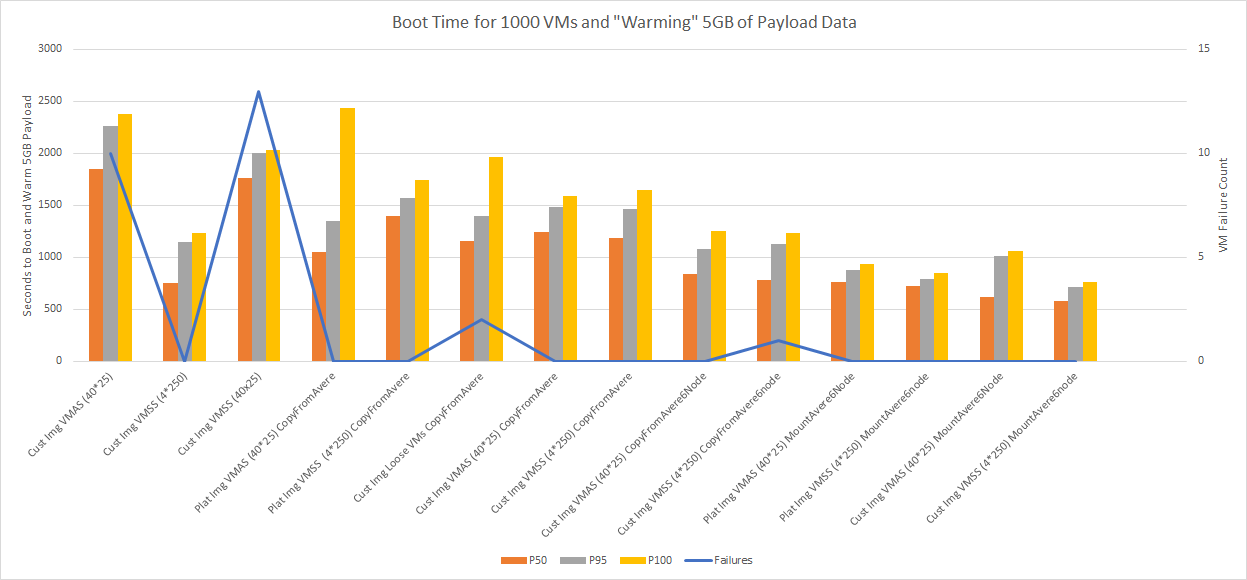
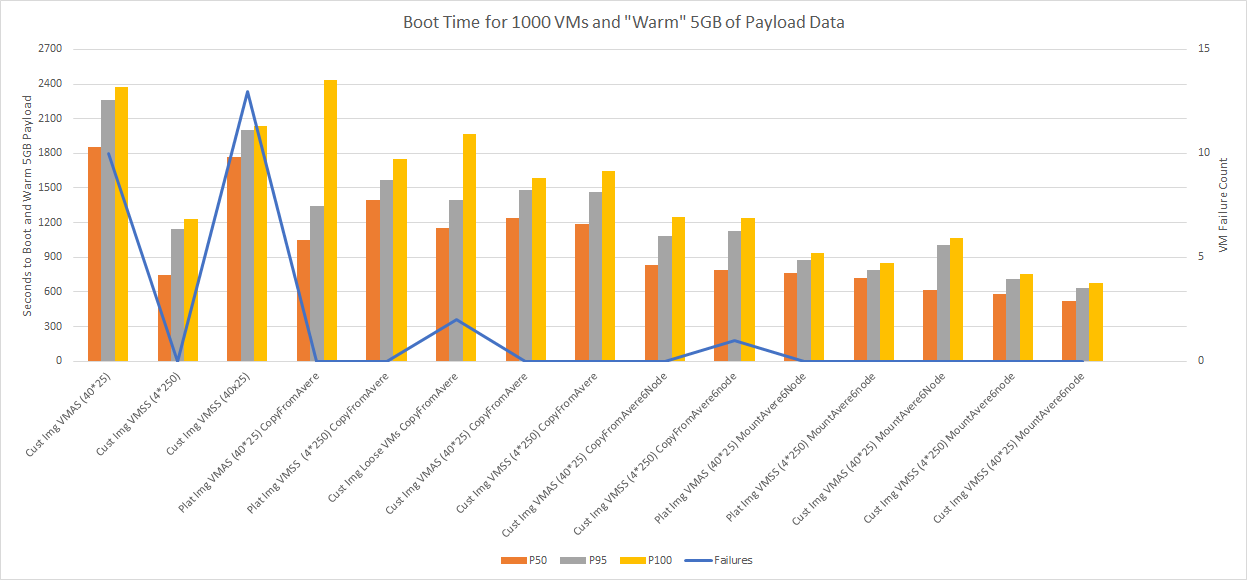
add abstract and update charts to use major axis in 5 min increments

diff --git a/docs/azure_vm_provision_best_practices.md b/docs/azure_vm_provision_best_practices.md
@@ -2,16 +2,21 @@
 
 September 2018
 
-The Avere Virtual FXT (vFXT) Edge Filers act as network-attached storage (NAS) in the cloud and support burstable high-performance computing (HPC) workloads. A common question we hear from customers is how to boot thousands of virtual machines (VMs) quickly on Azure. 
+## Abstract
 
-Our first answer to customers is to investigate the Azure managed solutions such as [Azure CycleCloud](https://azure.microsoft.com/en-us/features/azure-cyclecloud/) and [Azure Batch](https://azure.microsoft.com/en-us/services/batch/). These two solutions remove the complexity of booting HPC sized compute workloads.
+Using a combination of Azure Compute primitives and the Avere vFXT we were able decrease the 95th percentile of the boot time and payload read of 1000 VMs by 72% from 37 minutes 40 seconds down to 10 minutes 33 seconds.  This report discusses the various performance pitfalls to avoid and the optimizations available to ensure your VMs boot and are running your applications in the fastest possible time.
+
+## Introduction
+
+A common question we hear from our HPC customers is how to boot thousands of virtual machines (VMs) quickly on Azure.  Our first answer to customers is to use either of the Azure managed solutions such as [Azure CycleCloud](https://azure.microsoft.com/en-us/features/azure-cyclecloud/) and [Azure Batch](https://azure.microsoft.com/en-us/services/batch/). These two solutions remove the complexity of booting HPC sized compute workloads.
 
 However, some customers still want to deploy their own workloads from scratch or want the ability to fine tune and add features from the [Azure Quickstart Templates](https://github.com/Azure/azure-quickstart-templates). For these customers we did not have a best practices guide. This document explores booting 1000 VMs and provides some best practices for deploying VMs quickly on Azure.
 
 The main questions of this document are:
-  1. What is the fastest way to deploy 1000 VMs?
 
-  2. Can the Avere vFXT be used to serve large binary/toolchain payloads to result in improved deployment times?
+  1. What is the fastest way to boot 1000 VMs?
+
+  2. Can the Avere vFXT be used to serve large binary / toolchain payloads to result in improved deployment times?  The Avere Virtual FXT (vFXT) Edge Filers act as network-attached storage (NAS) in the cloud and support burstable high-performance computing (HPC) workloads. 
 
 This document first starts with hypotheses for these questions, and then runs various experiments to prove or disprove the hypotheses and finally concludes with best practices. Some of the best practices learned in this study can further help improve speed of boot times with [Azure CycleCloud](https://azure.microsoft.com/en-us/features/azure-cyclecloud/), and [Azure Batch](https://azure.microsoft.com/en-us/services/batch/).
 
@@ -98,11 +103,11 @@ Then with each template from the [deployer utility](https://github.com/anhowe/az
 
 ## Results
 
-We broke our experiment up into two phases:
+We divided our experiment into two phases:
 
   1. Phase 1: Determine the fastest way to boot 1000 VMs.
 
-  2. Phase 2: How much does Avere vFXT improve the delivery of the large binary/toolchain payloads?
+  2. Phase 2: How can the Avere vFXT improve the delivery and usage of a large binary/toolchain payload?
  
 ### Phase 1: Determine the fastest way to boot 1000 VMs
 
@@ -205,9 +210,9 @@ Here are the percentiles of seconds to boot and "warm" a 1GB tool chain from bit
 
 On the 5GB "warming" we hit some form of threshold in the stack where the VM boot tail grew as signified by the P100 time. We also started seeing multiple VM failures. Most of the failures we saw were because the VM rebooted and interrupted the deployment process.  The VMSS VMs outperformed the loose VMs and the availability set VMs. After running this experiment we ran an additional experiment, where we reduced the VMSS to 25 VMs per VMSS, and we ended up with much worse performance and an increase in failures. This led to a conclusion that a large VMSS group scales much better than many smaller ones.
 
-### Phase 2: How much does Avere vFXT improve the delivery of the large binary/toolchain payloads?
+### Phase 2: How can the Avere vFXT improve the delivery and usage of a large binary/toolchain payload?
 
-The next phase of the experiment was to determine how to use the Avere vFXT to improve boot time by using it to serve the 1GB and 5GB binary/toolchain payloads. Our first few runs against the Avere proved slow. Upon further investigation we realized we had to disable "always forward" for this read workload. The "always forward" on the Avere vFXT treats all the RAM and disk memory across the Avere nodes as one shared pool. In this way, the more nodes you add, the larger your shared cache. The downside is that the probability of introducing a network hop is the inverse of your node count-1. Disabling "always forward" reduces the cache size to the amount of RAM/disk space on a single machine, but completely eliminates the network hop.
+The next phase of the experiment is to determine how to use the Avere vFXT to improve boot time by using it to serve the 1GB and 5GB binary/toolchain payloads. Our first few runs against the Avere vFXT were slow. Upon further investigation we realized we had to disable "always forward" for this read workload. The "always forward" on the Avere vFXT treats all the RAM and disk memory across the Avere nodes as one shared pool. In this way, the more nodes you add, the larger your shared cache. The downside is that the probability of introducing a network hop is the inverse of your node count-1. Disabling "always forward" reduces the cache size to the amount of RAM/disk space on a single machine, but completely eliminates the network hop.
 
 Disabling "always forward" is an advanced command-line setting on the Avere vFXT cluster. From the cluster controller VM, SSH as root to the management IP address for the cluster. This will connect you to a vFXT node in the cluster. Log in using the administrative password you set for the cluster and run the following commands:
 
@@ -241,8 +246,12 @@ The results for the 5GB warming runs are summarized in the following chart. The 
    <img src="images/vm_boot/boot_time_1000vms_and_warm_5GB_results.png">
 
 The fastest configuration for booting 1000 VMs with a 5GB toolchain payload was the following:
- * Four VMSS resources each with 250 custom image VMs
+ * 40 VMSS resources each with 25 custom image VMs
  * Mount a six-node Avere vFXT for the toolchain payload
+
+It is worth shrinking the above chart to highlight a subtle performance characteristic with VMSS density.  When reading a large payload from the OS disk, either from the boot (Windows) or from the boot + payload read, it is important to use the most densely packed VMSS to get the fastest possible boot time, with the least amount of VM failures.  If you have a small payload and a small footprint, then it is better to go with a less dense VMSS for the best performance as shown in the following chart:
+
+   <img src="images/vm_boot/boot_time_1000vms_density_results.png">
 
 ## Conclusion
 
@@ -252,16 +261,14 @@ In conclusion, here are the best practices to achieve the best VM bootup times o
 
   1. **Use a managed service for VM creation** - Before deploying VMs directly, consider using an Azure managed service like [Azure CycleCloud](https://azure.microsoft.com/en-us/features/azure-cyclecloud/) or [Azure Batch](https://azure.microsoft.com/en-us/services/batch/). This hides all the complexity and issues we encountered in this experiment.
 
-  2. **Reading large binary/toolchain payloads from the custom image are slow for all VM configurations but VMSS** - Warming the cache by reading a large binary payload from a custom image is slow for loose VMs and availability set configurations. Additionally the larger the binary/toolchain payload the greater the spike in VM failures. In our configuration we were running Ubuntu, which requires about 400-500 MB to boot and reading the toolchain. We suspect for larger OSes like Windows, we will get less GB of toolchain to download before we see a spike in VM failures and a long deployment time tail.
+  2. **Use an Avere vFXT to deliver large binary/toolchain payloads** - The fastest boot times resulted when VMs were able to mount the Avere vFXT directly, and consume the binary/toolchain payloads directly from the Avere vFXT. This also resulted in fewer rebooted VMs.  This best practice can also be combined when booting with [Azure CycleCloud](https://azure.microsoft.com/en-us/features/azure-cyclecloud/) and [Azure Batch](https://azure.microsoft.com/en-us/services/batch/).
 
-  3. **Use an Avere vFXT to deliver large binary/toolchain payloads** - The fastest boot times resulted when VMs were able to mount the Avere vFXT directly, and consume the binary/toolchain payloads directly from the Avere vFXT. This also resulted in fewer rebooted VMs.  This best practice can also be combined when booting with [Azure CycleCloud](https://azure.microsoft.com/en-us/features/azure-cyclecloud/) and [Azure Batch](https://azure.microsoft.com/en-us/services/batch/).
+  3. **The Avere vFXT scales linearly as you add more nodes** - Our experiments showed that the Avere vFXT linearly scaled in throughput as more nodes were added.
 
-  4. **The Avere vFXT scales linearly as you add more nodes** - Our experiments showed that the Avere vFXT linearly scaled in throughput as more nodes were added.
+  4. **Use VMSS** - If you are unable to use a managed service, then your next best option is VMSS. As shown in our experiments VMSS consistently out performed availability sets and loose VMs.
 
-  5. **Use VMSS** - If you are unable to use a managed service, then your next best option is VMSS. As shown in our experiments VMSS consistently out performed availability sets and loose VMs.
-      
-  6. **Use a large count of VMs per VMSS** - We found that VMSS worked better when we had a large number of VMs per VMSS. For our experiments we used 250 VMs per VMSS. When we tried 40 VMs per VMSS the performance was significantly worse and also resulted in failed VMs.
+  5. **Adjust VMSS density depending on bytes used per VM** - We found that the more bytes a VM used, the better performance came from packing the VMSS more densely.  If you are booting Windows or Linux and a large toolchain payload it is best to pack your VMSS at a density of 300 VMs per VMSS for the custom image.  If you are booting linux and a very small toolchain payload, then a density of 25 VMs per VMSS will have the best performance.
 
-  7. **Manage your ARM calls** - ARM throttling was our first major problem to overcome. Once you start getting throttled, any over-provisioning to get faster times will actually increase your deployment tail. Techniques used above included using cloud-init instead of custom script extension, staggering ARM calls, and reducing polling. Additionally, using multiple subscriptions will also help work around these issues.
+  6. **Manage your ARM calls** - ARM throttling was our first major problem to overcome. Once you start getting throttled, any over-provisioning to get faster times will actually increase your deployment tail. Techniques used above included using cloud-init instead of custom script extension, staggering ARM calls, and reducing polling. Additionally, using multiple subscriptions will also help work around these issues.
 
-  8. **Loose VMs are slow** - Loose VMs were always the slowest to boot and had the longest deployment time tails.  If you want to use loose VMs consider grouping them by availability sets to get better performance.
+  7. **Loose VMs are slow** - Loose VMs were always the slowest to boot and had the longest deployment time tails.  If you want to use loose VMs consider grouping them by availability sets to get better performance.
